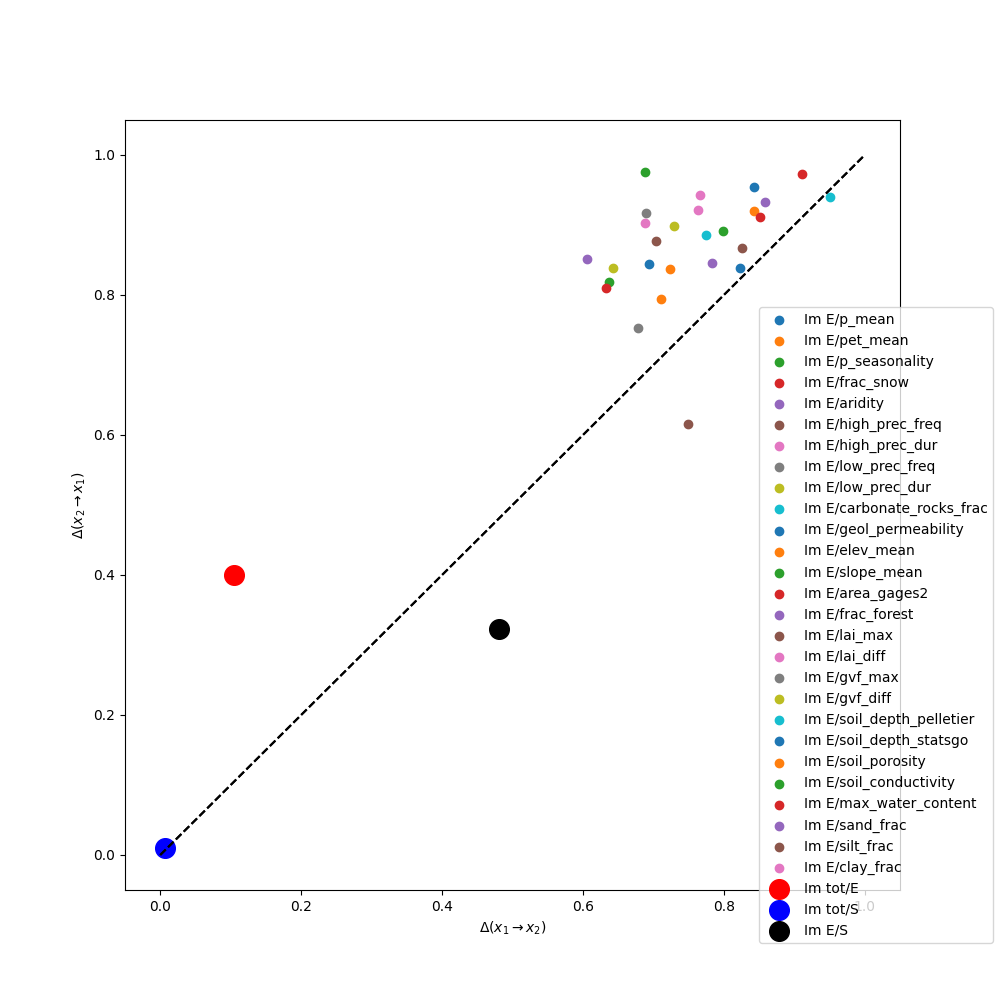
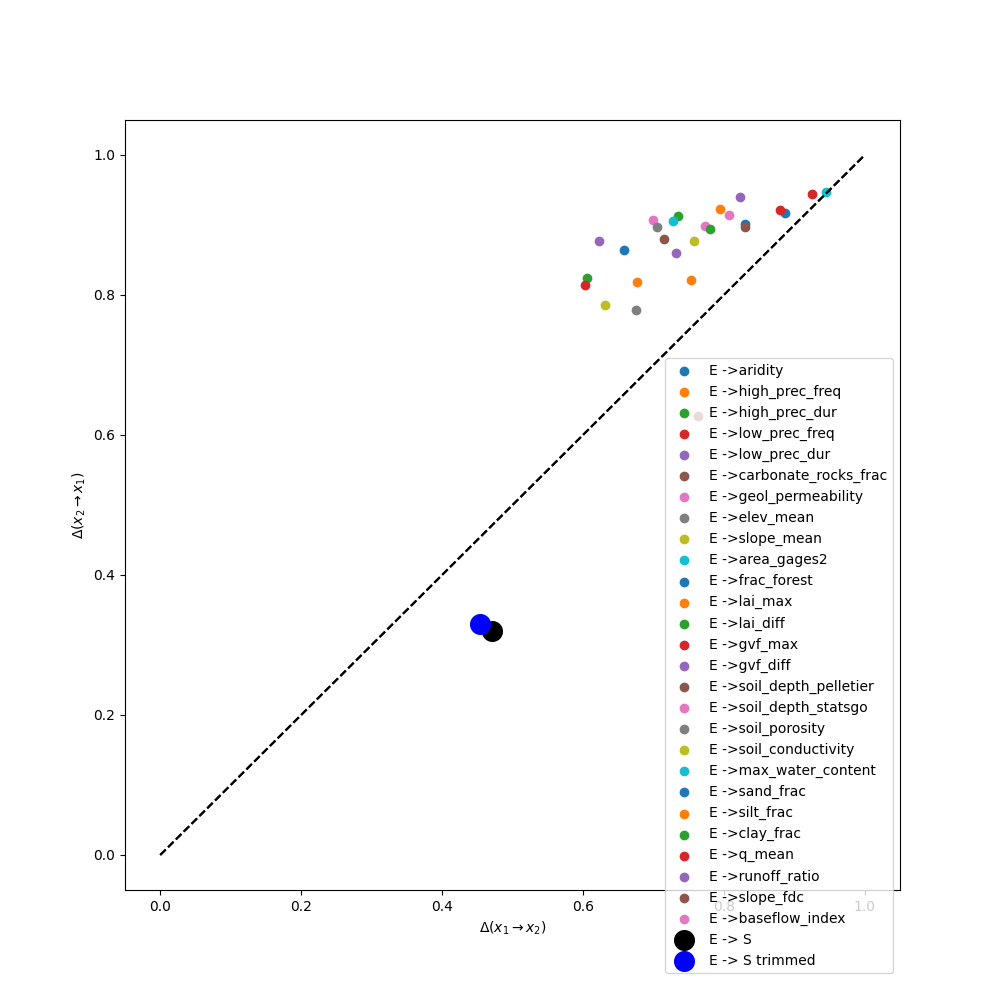
up

diff --git a/src/dataset.py b/src/dataset.py
@@ -16,7 +16,7 @@ from utils import Scale_Data, Globally_Scale_Data
 
 
 class CamelDataset(Dataset):
-    def __init__(self, dates: list, force_attributes: list,  data_path: str = "basin_dataset_public_v1p2", source_data_set: str = "daymet", debug=False, transform_input=None, transform_output=None, transform_statics=None) -> None:
+    def __init__(self, dates: list, force_attributes: list,  data_path: str = "basin_dataset_public_v1p2", source_data_set: str = "daymet", debug=False, transform_input=None, transform_output=None) -> None:
         super().__init__()
      
         self.data_path = data_path
@@ -30,7 +30,7 @@ class CamelDataset(Dataset):
         self.debug = debug # debug mode default off
         self.transform_input = transform_input
         self.transform_output = transform_output
-        self.transform_statics = transform_statics
+       
 
         # static attributes
         clim_attr = ["p_mean", "pet_mean", "p_seasonality", "frac_snow", "aridity", "high_prec_freq", "high_prec_dur","low_prec_freq", "low_prec_dur"] # 9 features
@@ -44,6 +44,12 @@ class CamelDataset(Dataset):
         soil_attr = ["soil_depth_pelletier","soil_depth_statsgo","soil_porosity","soil_conductivity","max_water_content","sand_frac","silt_frac","clay_frac"] # 8 features
         df_soil = pd.read_csv(data_path+"/camels_soil.txt", sep=";")[soil_attr] 
 
+        # hydrological signaures(normalized)
+        self.df_hydro = pd.read_csv(data_path+"/camels_hydro.txt", sep=";").iloc[:,1:]
+        self.hydro_attributes = self.df_hydro.shape[1] # as many as Kratzert
+        self.hydro_ids = np.array(pd.read_csv(data_path+"/camels_hydro.txt", sep=";")["gauge_id"]).astype(int)
+
+        # statics attributes(normalized)
         self.df_statics = pd.concat([df_clim, df_geol, df_topo, df_vege, df_soil], axis=1)
         self.static_attributes = self.df_statics.shape[1] # as many as Kratzert
         self.statics_ids = np.array(pd.read_csv(data_path+"/camels_clim.txt", sep=";")["gauge_id"]).astype(int)
@@ -64,8 +70,7 @@ class CamelDataset(Dataset):
         self.max_flow = -1000*torch.ones((1,), dtype=torch.float32)
         self.min_force = 1000*torch.ones((self.num_force_attributes,), dtype=torch.float32)
         self.max_force = -1000*torch.ones((self.num_force_attributes,), dtype=torch.float32)
-        self.min_statics = 1000*torch.ones((self.static_attributes,), dtype=torch.float32)
-        self.max_statics = -1000*torch.ones((self.static_attributes,), dtype=torch.float32)
+        
         
         
         # ==========================================================================
@@ -105,6 +110,7 @@ class CamelDataset(Dataset):
         self.input_data = torch.zeros(self.len_dataset, 1, self.seq_len, 1)
         self.output_data = torch.zeros(self.len_dataset, 1, self.seq_len, self.num_force_attributes)
         self.statics_data = torch.zeros(self.len_dataset,1, 1, self.static_attributes)
+        self.hydro_data = torch.zeros(self.len_dataset,1, 1, self.hydro_attributes)
         
     def adjust_dates(self, ):
         """
@@ -260,21 +266,35 @@ class CamelDataset(Dataset):
                 if  int(self.loaded_basin_ids[i]) == self.statics_ids[j]:
                     statics_data = torch.tensor(self.df_statics.iloc[j,:], dtype=torch.float32).unsqueeze(0).unsqueeze(0) # shape (1, seq_len, feature_dim=1)
                     self.statics_data[i] = statics_data
-                    current_min_statics = torch.amin(statics_data.squeeze(dim=0), dim=0)
-                    current_max_statics = torch.amax(statics_data.squeeze(dim=0), dim=0)
-                    self.min_statics = torch.minimum(self.min_statics, current_min_statics)
-                    self.max_statics = torch.maximum(self.max_statics, current_max_statics)
+                  
+        # renormalize
+        self.statics_data = (self.statics_data- torch.amin(self.statics_data, dim=0, keepdim=True))/(torch.amax(self.statics_data, dim=0, keepdim=True)-torch.amin(self.statics_data, dim=0, keepdim=True))
+        print("...done.")
 
 
-        # redefine transformations
-        self.transform_statics = Globally_Scale_Data(self.min_statics, self.max_statics)
-
+    def load_hydro(self):
+        """
+        Load static catchment features
+        """
+        print("Loading statics attributes...")
+        for i in range(len(self.loaded_basin_ids)):
+            for j in range(len(self.hydro_ids)):
+                if  int(self.loaded_basin_ids[i]) == self.hydro_ids[j]:
+                    hydro_data = torch.tensor(self.df_hydro.iloc[j,:], dtype=torch.float32).unsqueeze(0).unsqueeze(0) # shape (1, seq_len, feature_dim=1)
+                    self.hydro_data[i] = hydro_data
+                  
+        self.hydro_data = (self.hydro_data- torch.amin(self.hydro_data, dim=0, keepdim=True))/(torch.amax(self.hydro_data, dim=0, keepdim=True)-torch.amin(self.hydro_data, dim=0, keepdim=True))
         print("...done.")
                   
+    def save_hydro(self, filename):
+        np_data =  self.hydro_data.squeeze().cpu().numpy()
+        df = pd.DataFrame(np_data, columns=self.df_hydro.columns)
+        df.insert(0, "basin_id", self.loaded_basin_ids)
+        df.to_csv(filename, sep=" ")
+    
     def save_statics(self, filename):
         np_data =  self.statics_data.squeeze().cpu().numpy()
-        columns =  ["p_mean", "pet_mean", "p_seasonality", "frac_snow", "aridity", "high_prec_freq", "high_prec_dur","low_prec_freq", "low_prec_dur", "carbonate_rocks_frac", "geol_permeability", "elev_mean","slope_mean","area_gages2", "frac_forest","lai_max","lai_diff","gvf_max","gvf_diff", "soil_depth_pelletier","soil_depth_statsgo","soil_porosity","soil_conductivity","max_water_content","sand_frac","silt_frac","clay_frac"] 
-        df = pd.DataFrame(np_data, columns=columns)
+        df = pd.DataFrame(np_data, columns=self.df_statics.columns)
         df.insert(0, "basin_id", self.loaded_basin_ids)
         df.to_csv(filename, sep=" ")
 
@@ -290,8 +310,6 @@ class CamelDataset(Dataset):
             x_data = self.transform_input(x_data)
         if self.transform_output:
             y_data = self.transform_output(y_data)
-        if self.transform_statics:
-            statics = self.transform_statics(statics)
         return x_data, y_data, statics
 
     

diff --git a/src/analysis_imbalance.py b/src/analysis_imbalance.py
@@ -1,33 +1,89 @@
+import matplotlib as mpl
+from matplotlib import cycler
 import matplotlib.pyplot as plt
 import numpy as np
 import pandas as pd
 from dadapy.plot import plot_inf_imb_plane
 from dadapy.metric_comparisons import MetricComparisons
 import seaborn as sns
-# retrieve data
-df_S = pd.read_csv("statics.txt", sep=" ").iloc[:,2::]
+# retrieve statics
+df_S = pd.read_csv("statics.txt", sep=" ").iloc[:,1::]
+S_ids = df_S.iloc[:,0]
+df_S = df_S.iloc[:,1::]
+df_S = (df_S- df_S.min())/(df_S.max()-df_S.min())
 
+# retrieve encoded features
 model_id = "lstm-ae-bdTrue-E4"
 filename = "encoded_features_"+model_id+".txt"
 df_E = pd.read_csv(filename, sep=" ").iloc[:,1::]
-noise = pd.DataFrame(np.random.normal(size=(562,5)),columns= df_E.columns)
-df_noise = pd.concat([noise, df_S], axis=1)
-df = pd.concat([df_E, df_S], axis=1)
+E_ids = df_E.iloc[:,0]
+df_E = df_E.iloc[:,1::]
+df_E = (df_E -df_E .min())/(df_E .max()- df_E .min())
 
-columns = df.iloc[:,1::].columns
-corr = df.iloc[:,1::].corr()
-corr_noise = df_noise.iloc[:,1::].corr()
+# retrieve hydro features
+df_H = pd.read_csv("hydro.txt", sep=" ").iloc[:,1::]
+H_ids = df_H.iloc[:,0]
+df_H = df_H.iloc[:,1::]
+df_H = (df_H- df_H.min())/(df_H.max()-df_H.min())
+
+# assert
+assert((S_ids==E_ids).all())
+assert((S_ids==H_ids).all())
+assert((E_ids==H_ids).all())
+
+# concat ES
+df_ES = pd.concat([df_E, df_S], axis=1)
+df_ES.insert(0, "basin_id", S_ids)
+
+# concat EH
+df_EH = pd.concat([df_E, df_H], axis=1)
+df_EH.insert(0, "basin_id", H_ids)
+
+# concat SH
+df_SH = pd.concat([df_S, df_H], axis=1)
+df_SH.insert(0, "basin_id", H_ids)
+
+
+# plot correaltion matrix ES
+columns = df_ES.iloc[:,1::].columns
+corr = np.abs(df_ES.iloc[:,1::].corr())
 fig, axs = plt.subplots(1,1,figsize=(10,10))
-g = sns.heatmap(corr, xticklabels=corr.columns, yticklabels=corr.columns, cmap="bwr", ax=axs)
+g = sns.heatmap(corr, xticklabels=corr.columns, yticklabels=corr.columns, cmap="YlOrRd", ax=axs)
 g.set_xticklabels(g.get_xticklabels(), rotation = 70, fontsize = 8)
 g.set_yticklabels(g.get_yticklabels(), rotation = 30, fontsize = 8)
 #sns.heatmap(corr_noise, xticklabels=corr.columns, yticklabels=corr.columns, cmap="bwr", ax=axs[1])
-file_corr = "plot_corrmat_"+model_id+".png"
+file_corr = "plot_corrES_"+model_id+".png"
+axs.set_title("Correlation matrix Encoded Features/Statics attributes(Kratzert)")
+fig.savefig(file_corr)
+
+# plot correaltion matrix EH
+columns = df_EH.iloc[:,1::].columns
+corr = np.abs(df_EH.iloc[:,1::].corr())
+fig, axs = plt.subplots(1,1,figsize=(10,10))
+g = sns.heatmap(corr, xticklabels=corr.columns, yticklabels=corr.columns, cmap="YlOrRd", ax=axs)
+g.set_xticklabels(g.get_xticklabels(), rotation = 70, fontsize = 8)
+g.set_yticklabels(g.get_yticklabels(), rotation = 30, fontsize = 8)
+#sns.heatmap(corr_noise, xticklabels=corr.columns, yticklabels=corr.columns, cmap="bwr", ax=axs[1])
+file_corr = "plot_corrEH_"+model_id+".png"
+axs.set_title("Correlation matrix Encoded Features/Hydrological Signatures")
+fig.savefig(file_corr)
+
+# plot correaltion matrix SH
+columns = df_SH.iloc[:,1::].columns
+corr = np.abs(df_SH.iloc[:,1::].corr())
+fig, axs = plt.subplots(1,1,figsize=(10,10))
+g = sns.heatmap(corr, xticklabels=corr.columns, yticklabels=corr.columns, cmap="YlOrRd", ax=axs)
+g.set_xticklabels(g.get_xticklabels(), rotation = 70, fontsize = 8)
+g.set_yticklabels(g.get_yticklabels(), rotation = 30, fontsize = 8)
+#sns.heatmap(corr_noise, xticklabels=corr.columns, yticklabels=corr.columns, cmap="bwr", ax=axs[1])
+file_corr = "plot_corrSH_"+model_id+".png"
+axs.set_title("Correlation matrix Static attributes(Kratzert)/Hydrological Signatures")
 fig.savefig(file_corr)
 
 
-X = np.array(df.iloc[:,1::])
-print(X.shape) # first 4 are encoded features, last 27 columns ar static attributes
+# information imbalance between ES
+X = np.array(df_ES.iloc[:,1::])
+
 # define an instance of the MetricComparisons class
 d = MetricComparisons(X)
 
@@ -36,27 +92,37 @@ coor_S = np.arange(4, 31)
 coor_tot = np.arange(31)
 print(coor_S)
 
-imb_E = d.return_inf_imb_two_selected_coords(coords1= coor_tot, coords2= coor_E)
-imb_S = d.return_inf_imb_two_selected_coords(coords1= coor_tot, coords2= coor_S)
 imb_ES = d.return_inf_imb_two_selected_coords(coords1= coor_E, coords2= coor_S)
 
 fig, ax = plt.subplots(1,1,figsize=(10,10))
 
-
+imb_singles = []
+trimmed_indexes = []
 for i in range(27):
-    imb_singles =  d.return_inf_imb_two_selected_coords(coords1= coor_E, coords2= [coor_S[i]])
-    ax.scatter(imb_singles[0], imb_singles[1], label = "Im E/"+columns[i+4])
+    imb_singles.append(d.return_inf_imb_two_selected_coords(coords1= coor_E, coords2= [coor_S[i]]))
+    ax.scatter(imb_singles[i][0], imb_singles[i][1], label = "E ->"+columns[coor_S[i]])
+    if imb_singles[i][0] > 0.8 and imb_singles[i][1] > 0.8:
+        print(columns[coor_S[i]])
+        trimmed_indexes.append(i)
+
+mask = np.ones(len(coor_S), dtype=bool)
+print(trimmed_indexes)
+mask[trimmed_indexes] = False
+trimmed_coor_S = coor_S[mask]
+print(trimmed_coor_S)
+imb_trimmed = d.return_inf_imb_two_selected_coords(coords1= coor_E, coords2= trimmed_coor_S)
 
 
+ax.scatter(imb_ES[0], imb_ES[1], label = 'E -> S', s=200, c="black")
+ax.scatter(imb_trimmed[0], imb_trimmed[1], label = 'E -> S trimmed', s=200, c="blue")
 
-ax.scatter(imb_E[0], imb_E[1], label = 'Im tot/E', s=200, c="red")
-ax.scatter(imb_S[0], imb_S[1], label = 'Im tot/S', s=200, c="blue")
-ax.scatter(imb_ES[0], imb_ES[1], label = 'Im E/S', s=200, c="black")
 ax.plot([0, 1], [0, 1], 'k--')
 ax.plot([0, 1], [0, 1], 'k--')
 ax.set_xlabel(r'$\Delta(x_1 \rightarrow x_2) $')
 ax.set_ylabel(r'$\Delta(x_2 \rightarrow x_1) $')
+cmap = plt.cm.coolwarm
+mpl.rcParams['axes.prop_cycle'] = cycler(color=cmap(np.linspace(0, 1, 27)))
 
-fig.legend(bbox_to_anchor=(0.5, 0.2, 0.5, 0.5))
-file_corr = "plot_imbalance_"+model_id+".png"
+ax.legend(bbox_to_anchor=(0.5, 0.2, 0.5, 0.5))
+file_corr = "plot_imbalanceES_"+model_id+".png"
 fig.savefig(file_corr)

diff --git a/src/extract_features.py b/src/extract_features.py
@@ -31,9 +31,9 @@ if __name__ == '__main__':
     #dataset.adjust_dates() # adjust dates if necessary
     camel_dataset.load_data() # load data
     camel_dataset.load_statics() # load statics
-    transform_statics = Globally_Scale_Data(camel_dataset.min_statics, camel_dataset.max_statics)
-    camel_dataset.statics_data = transform_statics(camel_dataset.statics_data)
     camel_dataset.save_statics("statics.txt") #save statics attributes
+    camel_dataset.load_hydro()
+    camel_dataset.save_hydro("hydro.txt")
 
     num_basins = camel_dataset.__len__()
     seq_len = camel_dataset.seq_len
